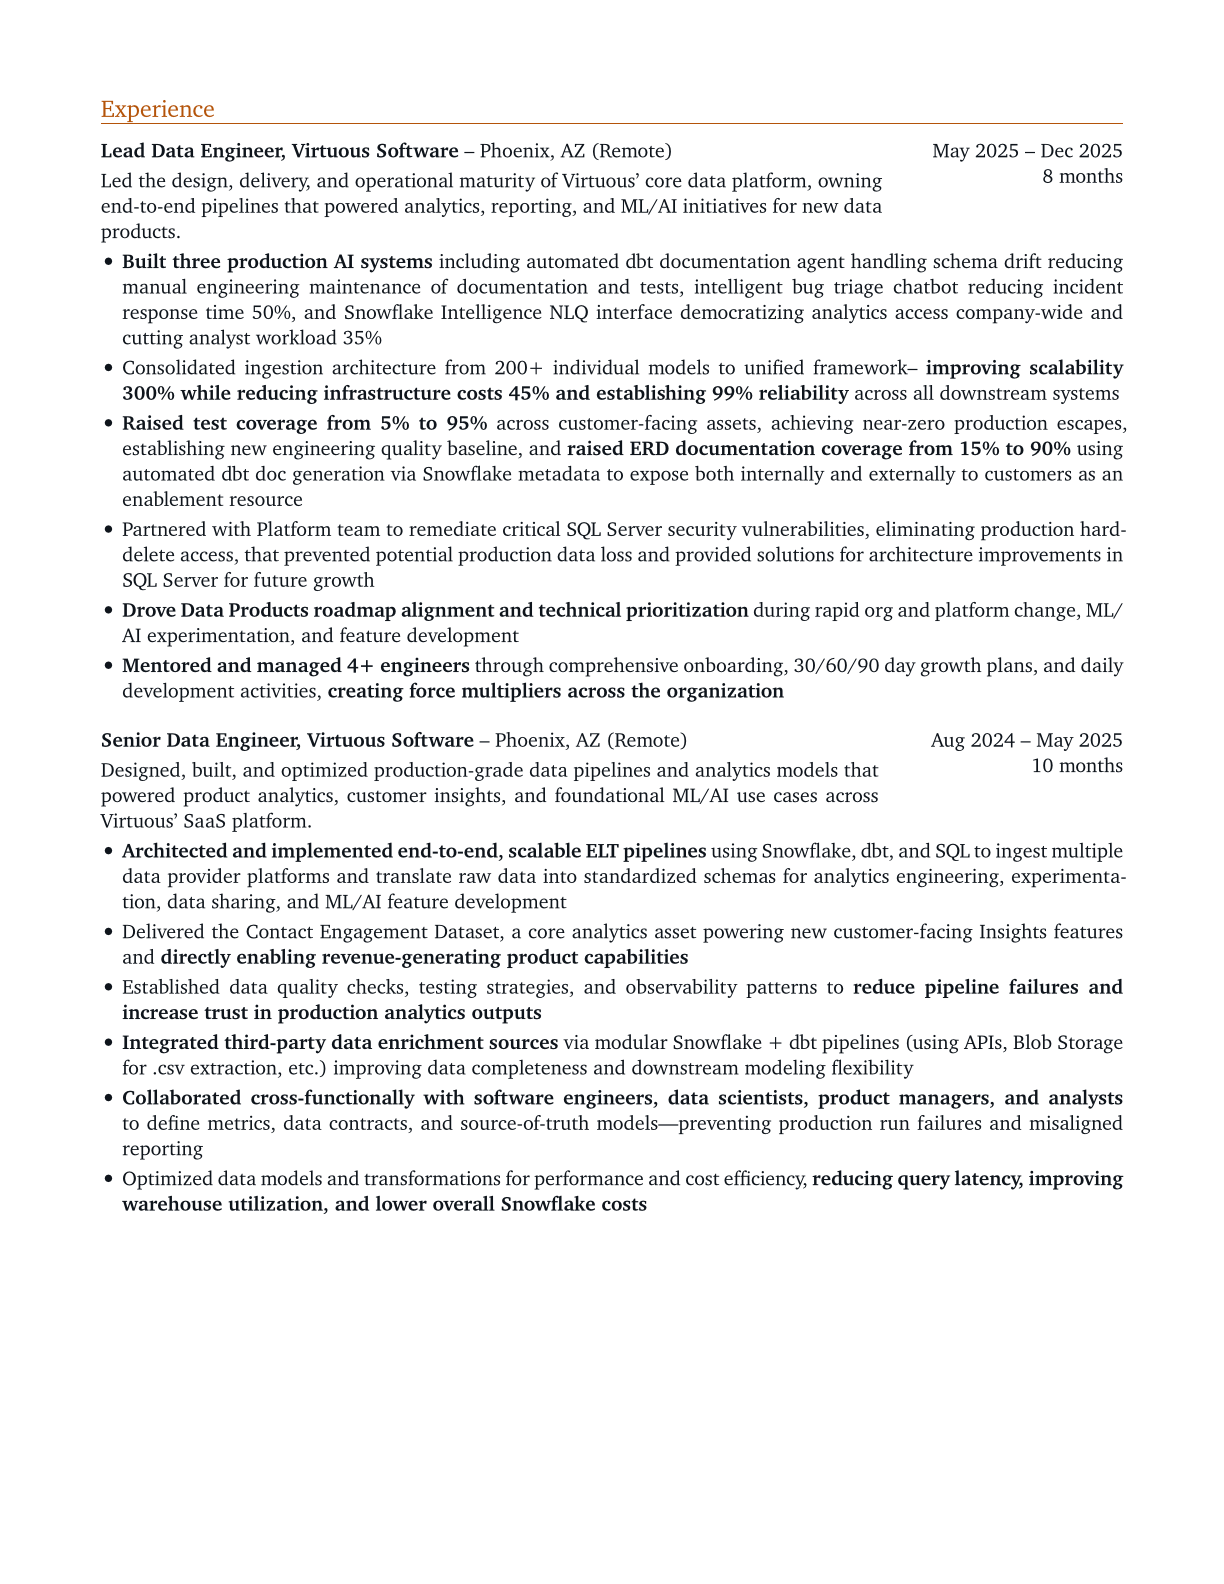
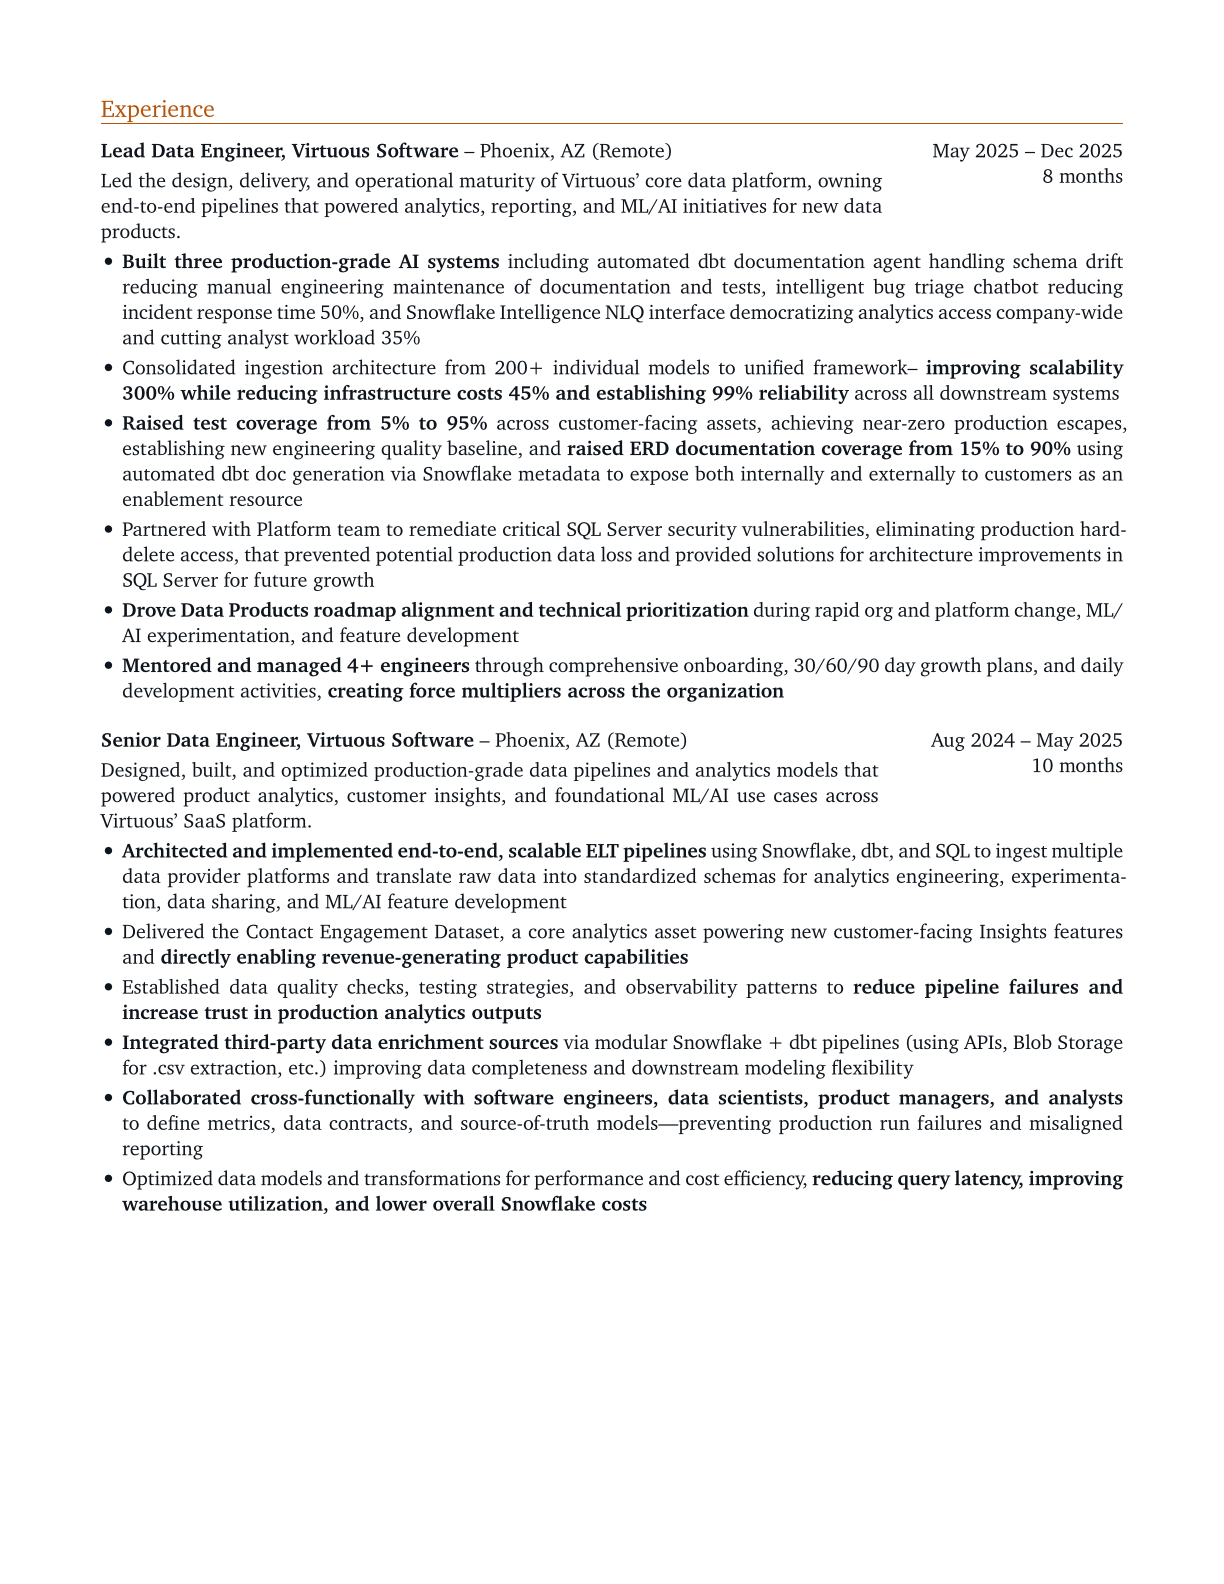
Just a little tweaky tweak because it's me 🙃

Changed region(s): [[0.0931, 0.1547, 0.9314, 0.2165]]

diff --git a/Jenn_Baber_CV.html b/Jenn_Baber_CV.html
@@ -72,7 +72,7 @@
         <p>Led the design, delivery, and operational maturity of Virtuous' core data platform, owning end-to-end pipelines that powered analytics, reporting, and ML/AI initiatives for new data products.</p>
         <ul>
         <li>
-        <p><strong>Built three production AI systems</strong> including automated dbt documentation agent handling schema drift reducing manual engineering maintenance of documentation and tests, intelligent bug triage chatbot reducing incident response time 50%, and Snowflake Intelligence NLQ interface democratizing analytics access company-wide and cutting analyst workload 35%</p>
+        <p><strong>Built three production-grade AI systems</strong> including automated dbt documentation agent handling schema drift reducing manual engineering maintenance of documentation and tests, intelligent bug triage chatbot reducing incident response time 50%, and Snowflake Intelligence NLQ interface democratizing analytics access company-wide and cutting analyst workload 35%</p>
         </li>
         <li>
         <p>Consolidated ingestion architecture from 200+ individual models to unified framework-- <strong>improving scalability 300% while reducing infrastructure costs 45% and establishing 99% reliability</strong> across all downstream systems</p>

diff --git a/README.md b/README.md
@@ -49,7 +49,7 @@ Led the design, delivery, and operational maturity of Virtuous' core data platfo
 
 
 
-- **Built three production AI systems** including automated dbt documentation agent handling schema drift reducing manual engineering maintenance of documentation and tests, intelligent bug triage chatbot reducing incident response time 50%, and Snowflake Intelligence NLQ interface democratizing analytics access company-wide and cutting analyst workload 35%
+- **Built three production-grade AI systems** including automated dbt documentation agent handling schema drift reducing manual engineering maintenance of documentation and tests, intelligent bug triage chatbot reducing incident response time 50%, and Snowflake Intelligence NLQ interface democratizing analytics access company-wide and cutting analyst workload 35%
 
 - Consolidated ingestion architecture from 200+ individual models to unified framework-- **improving scalability 300% while reducing infrastructure costs 45% and establishing 99% reliability** across all downstream systems
 
